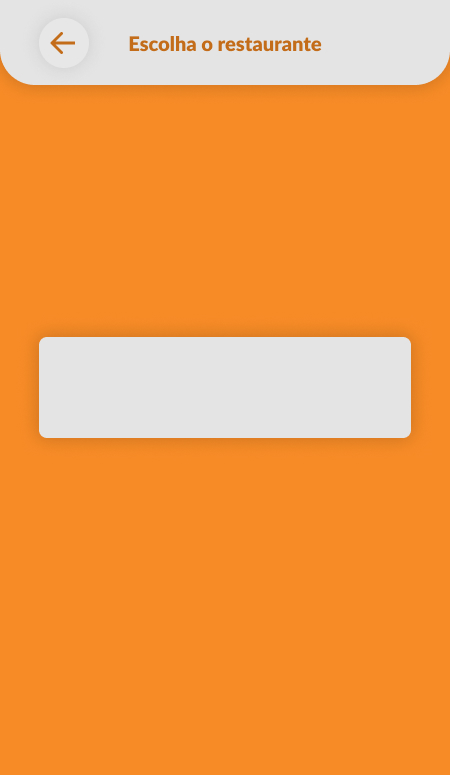
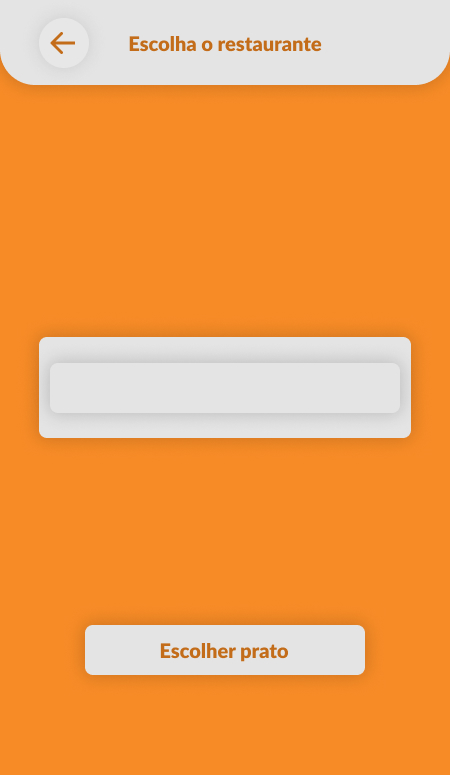
atualizando

Changed region(s): [[0.1867, 0.8052, 0.8089, 0.8981]]

diff --git a/src/CardapioPrato.java b/src/CardapioPrato.java
@@ -1,30 +1,49 @@
 import Classes.Prato;
+import Classes.Restaurante;
 import Components.ButtonVoltar;
 import Components.Tela;
-
 import javax.swing.*;
-import java.awt.*;
+import javax.swing.table.DefaultTableModel;
 import java.util.ArrayList;
+import static Classes.Prato.pratos;
 
 public class CardapioPrato extends Tela {
     public CardapioPrato(){
         super("src//imagens//escolhaPrato.jpg");
 
+        JTable table = new JTable();
+        DefaultTableModel model = new DefaultTableModel();
         ButtonVoltar btnVoltar = new ButtonVoltar();
 
-        ArrayList<Prato> listaPratos = Prato.pratos;
-        String [] opcoesPratos = new String[listaPratos.size()];
-        DefaultComboBoxModel<Prato> teste = new DefaultComboBoxModel<>(Prato.pratos.toArray(new Prato[0]));
-        JComboBox<Prato> comboBoxPrato = new JComboBox<>(teste);
+        //adicionando colunas na tabela que retronará os pratos cadstrados
+        model.addColumn("Nome do prato");
+        model.addColumn("Preço");
 
-        comboBoxPrato.setBounds(50,360,350,35);
-        comboBoxPrato.setBackground(Color.WHITE);
-        comboBoxPrato.setForeground(Color.BLACK);
-        comboBoxPrato.setFont(new Font("Arial", Font.BOLD, 15));
-        btnVoltar.setLocation(24,18);
+        ArrayList<Prato> listaDePratos = pratos;
+
+        for (Prato prato : listaDePratos){
+            model.addRow(new Object[]{prato.toString()});
+        }
+
+        table.setModel(model);
+        JScrollPane scrollPane = new JScrollPane(table);
+        scrollPane.setBounds(50,207,350,415);
+
+        // crio o combobox a partir da lista em que cadastrei os pratos
+        //ArrayList<Prato> listaPratos = Prato.pratos;
+        //String [] opcoesPratos = new String[listaPratos.size()];
+        //DefaultComboBoxModel<Prato> teste = new DefaultComboBoxModel<>(Prato.pratos.toArray(new Prato[0]));
+        //JComboBox<Prato> comboBoxPrato = new JComboBox<>(teste);
+
+        //comboBoxPrato.setBounds(50,360,350,35);
+        //comboBoxPrato.setBackground(Color.WHITE);
+        //comboBoxPrato.setForeground(Color.BLACK);
+        //comboBoxPrato.setFont(new Font("Arial", Font.BOLD, 15));
+        //btnVoltar.setLocation(24,18);
 
         getContentPane().add(btnVoltar);
-        getContentPane().add(comboBoxPrato);
+        getContentPane().add(scrollPane);
+//        getContentPane().add(comboBoxPrato);
 
         btnVoltar.addActionListener(e -> {
             CardapioPrato cardPrato = new CardapioPrato();

diff --git a/src/CardapioRestaurante.java b/src/CardapioRestaurante.java
@@ -1,5 +1,6 @@
 import Classes.App;
 import Classes.Restaurante;
+import Components.Button;
 import Components.ButtonVoltar;
 import Components.Tela;
 
@@ -12,7 +13,9 @@ public class CardapioRestaurante extends Tela {
         super("src//imagens//escolhaRes.jpg");
 
         ButtonVoltar btnVoltar = new ButtonVoltar();
+        Components.Button btnEscolherPrato = new Button();
 
+        btnEscolherPrato.setBounds(85,607,280,60);
         btnVoltar.setLocation(24,18);
 
         // tras a lista de restaurantes para essa classe
@@ -31,7 +34,14 @@ public class CardapioRestaurante extends Tela {
             dispose();
         });
 
+        btnEscolherPrato.addActionListener(e -> {
+            CardapioPrato cardPrato = new CardapioPrato();
+            cardPrato.setVisible(true);
+            dispose();
+        });
+
         getContentPane().add(comboBoxRestaurante);
+        getContentPane().add(btnEscolherPrato);
         getContentPane().add(btnVoltar);
     }
 

diff --git a/src/SelUser.java b/src/SelUser.java
@@ -23,14 +23,14 @@ public class SelUser extends Tela {
         btnEntrarSelUser.addActionListener(e -> {
             EntrarUser entrarUser = new EntrarUser();
             entrarUser.setVisible(true);
-            System.out.println("Olá, estou indo para o entrar usuario");
+            //System.out.println("Olá, estou indo para o entrar usuario");
             dispose();
         });
 
         btnCadUser.addActionListener(e -> {
             CadUser cadUser = new CadUser();
             cadUser.setVisible(true);
-            System.out.println("Olá, estou indo para o cad user");
+            //System.out.println("Olá, estou indo para o cad user");
             dispose();
         });
 

diff --git a/src/CadPrato.java b/src/CadPrato.java
@@ -24,7 +24,9 @@ public class CadPrato extends Tela {
             String precoNovoPratoString = inputPrecoNovoPrato.getText();
 
             Prato prato = new Prato(nomeNovoPrato, Double.parseDouble(precoNovoPratoString));
+
             Prato.cadastrarPrato(prato);
+            //Prato.cadastrarPrato(new Prato(nomeNovoPrato, Double.parseDouble(precoNovoPratoString)));
 
             FinalizarPrato finPrato = new FinalizarPrato();
             finPrato.setVisible(true);

diff --git a/src/Components/Password.java b/src/Components/Password.java
@@ -5,8 +5,8 @@ import java.awt.*;
 
 public class Password extends JPasswordField {
     public Password(){
-        //setOpaque(false);
-        setBackground(Color.CYAN);
+        setOpaque(false);
+        //setBackground(Color.CYAN);
         setBorder(null);
         setVisible(true);
         setFont(new Font("Arial", Font.BOLD, 15));

diff --git a/src/Components/Input.java b/src/Components/Input.java
@@ -5,8 +5,8 @@ import java.awt.*;
 
 public class Input extends JTextField {
     public Input(){
-        //setOpaque(false);
-        setBackground(Color.CYAN);
+        setOpaque(false);
+        //setBackground(Color.CYAN);
         setBorder(null);
         setVisible(true);
         setFont(new Font("Arial", Font.BOLD, 15));

diff --git a/src/Classes/Restaurante.java b/src/Classes/Restaurante.java
@@ -11,6 +11,7 @@ public class Restaurante {
     private String senhaRestaurante;
     public static ArrayList<Prato> pedidos = new ArrayList<>();
 
+
     // função para armazenar os pedidos
     public static void cadastrarPedido (Prato prato) {
         pedidos.add(prato);

diff --git a/src/Classes/Prato.java b/src/Classes/Prato.java
@@ -8,6 +8,7 @@ public class Prato {
     public static ArrayList<Prato> pratos = new ArrayList<>();
 
     public Prato(){
+
     }
 
     public Prato(String nomePrato, Double precoPrato) {
